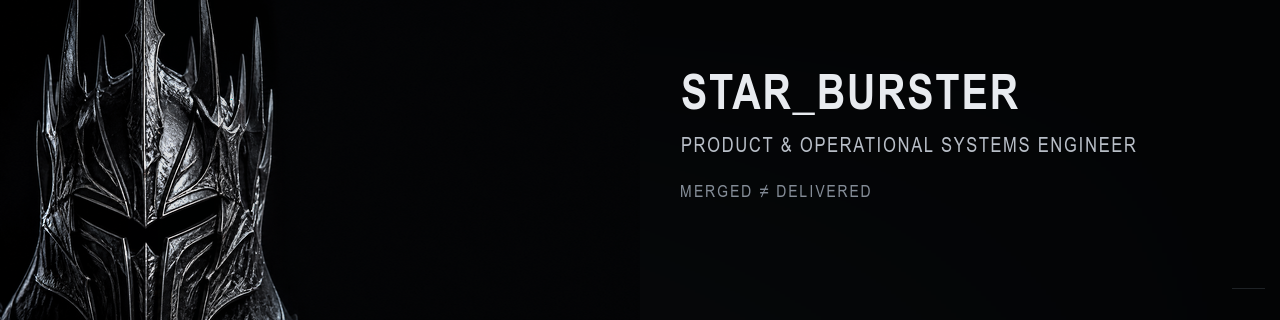
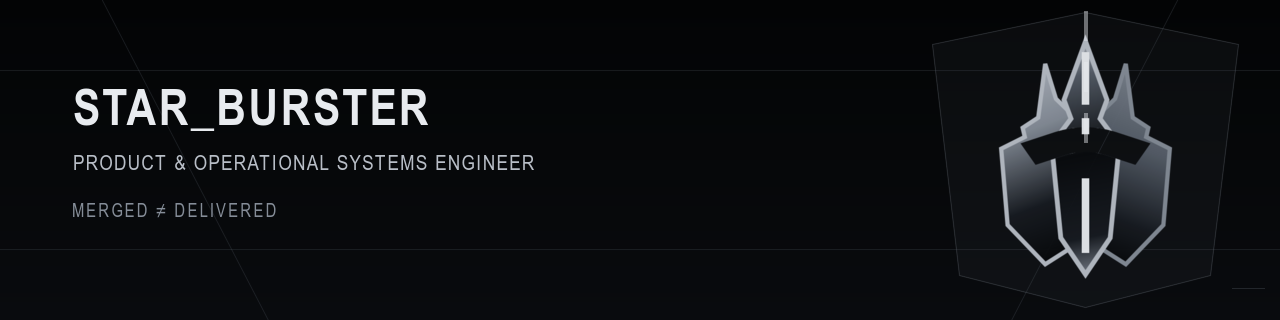
Finish Star_Burster profile content and visuals

diff --git a/case-studies/employee-operations-portal.md b/case-studies/employee-operations-portal.md
@@ -1,37 +1,48 @@
-<div align="center">
+<picture>
+  <source media="(max-width: 720px)" srcset="../assets/brand/github-readme-hero-mobile-780x390.png">
+  <img src="../assets/brand/github-readme-hero-desktop-1280x320.png" alt="Star_Burster — Product and Operational Systems Engineer. Merged does not mean delivered." width="1280">
+</picture>
 
-![FalconExLover — Neon Ops](../assets/neon-ops-header.svg)
+[← Back to the profile](../README.md)
 
-# `MISSION FILE // OPS-03`
+# Employee Operations Portal
 
-**EMPLOYEE OPERATIONS PORTAL**
+**Owner-authored case study · Enterprise workflows · Offline resilience · Operations**
 
-`ENTERPRISE WORKFLOWS` · `OFFLINE RESILIENCE` · `OPERATIONS`
+## Context
 
-</div>
+Fragmented employee requests needed one digital entry point without building and maintaining a separate page and handling path for every department and request type.
 
-[← Return to systems profile](../README.md)
+## Constraint
 
-## `01 // context`
-An internal operations portal was designed to replace fragmented, manual request workflows with a single digital entry point.
+The documented scope covers 30 request types across 13 departments, role-specific queues, SLA tracking, escalation, employee communication, unreliable connectivity, deployment, backups, and recurring operations.
 
-## `02 // independent delivery`
-- Built a declarative request engine supporting 30 request types across 13 departments.
-- Implemented role-based access, role-specific work queues, SLA tracking, escalation, employee communication features, knowledge base, and management dashboards.
-- Added PWA offline request queue for unreliable connectivity.
-- Built a portable deployment package with Docker and PostgreSQL, automated migrations, backup rotation, operational runbooks, and end-to-end smoke testing.
+## Decisions
 
-## `03 // engineering outcomes`
-- New request types can be configured without creating a new page for each workflow.
-- The service can run locally with SQLite and move to PostgreSQL when deployed.
-- Operational tasks such as backups and recurring notifications are documented and automated.
+- built a declarative request engine so new request types can be configured instead of receiving a dedicated page;
+- added role-based access, role-specific work queues, SLA tracking, escalation, communication features, a knowledge base, and management dashboards;
+- added a PWA offline request queue for unreliable connectivity;
+- supported local operation with SQLite and deployment with PostgreSQL;
+- packaged deployment with Docker, automated migrations, backup rotation, operational runbooks, recurring notifications, and end-to-end smoke testing.
 
-## `04 // systems loadout`
-
-`Next.js` · `TypeScript` · `React` · `SQLite` · `PostgreSQL` · `Docker` · `Playwright` · `PWA`
+## Verification path
 
 ```text
-REQUEST → ROUTE → TRACK → RESOLVE → LEARN
+REQUEST → ROUTE → ROLE QUEUE → TRACK → RESOLVE → SMOKE CHECK → RECOVER
 ```
 
-[← Return to systems profile](../README.md)
+The documented acceptance surface covers request creation, routing, role visibility, lifecycle tracking, offline queuing, deployment steps, and recurring operational tasks.
+
+## Result
+
+The public case documents a configurable request system that brings multiple departmental workflows into one model while keeping deployment and operational responsibilities explicit.
+
+## Evidence boundary
+
+The figures `30 request types` and `13 departments` are owner-authored scope facts. The documented system is a prototype: it has not been deployed or connected to live identity, mail, access-control, service-management, or accounting systems. This case does not independently prove adoption, time savings, SLA improvement, availability, security, or organization-wide business impact.
+
+## Коротко по-русски
+
+Портал объединяет 30 типов заявок для 13 подразделений через декларативный движок, ролевые очереди, SLA-контур и offline-очередь PWA. Это прототип: он не развёрнут и не подключён к боевым системам. Публичный кейс показывает заявленный охват и устройство рабочего потока, но не выдаёт их за независимо подтверждённый бизнес-эффект.
+
+[← Back to the profile](../README.md)

diff --git a/case-studies/booking-operations-platform.md b/case-studies/booking-operations-platform.md
@@ -1,38 +1,48 @@
-<div align="center">
+<picture>
+  <source media="(max-width: 720px)" srcset="../assets/brand/github-readme-hero-mobile-780x390.png">
+  <img src="../assets/brand/github-readme-hero-desktop-1280x320.png" alt="Star_Burster — Product and Operational Systems Engineer. Merged does not mean delivered." width="1280">
+</picture>
 
-![FalconExLover — Neon Ops](../assets/neon-ops-header.svg)
+[← Back to the profile](../README.md)
 
-# `MISSION FILE // OPS-01`
+# Booking & Operations Platform
 
-**BOOKING & OPERATIONS PLATFORM**
+**Owner-authored case study · Product delivery · Platform engineering · Observability**
 
-`PRODUCT DELIVERY` · `PLATFORM ENGINEERING` · `OBSERVABILITY`
+## Context
 
-</div>
+A customer-facing booking platform needed more than application code. The delivery path also had to make configuration, service dependencies, releases, operating signals, and recovery work understandable after launch.
 
-[← Return to systems profile](../README.md)
+## Constraint
 
-## `01 // context`
-A customer-facing booking platform required a production-ready application and an operating model that could be maintained safely after release.
+The working flow crossed the application, PostgreSQL, Redis, Nginx, containers, and the monitoring stack. A repository event alone could not show whether that complete path was ready to operate.
 
-## `02 // independent delivery`
-- Designed the service architecture and deployment topology.
-- Built backend and frontend delivery flow around Node.js, PostgreSQL, Redis, Docker Compose, and Nginx.
-- Added environment-specific configuration and release checks.
-- Implemented observability: structured logs, Prometheus metrics, Grafana dashboards, Loki, and Alertmanager.
-- Established GitHub Actions validation, security scanning, staging checks, and deployment runbooks.
+## Decisions
 
-## `03 // engineering outcomes`
-- Release process is documented and repeatable.
-- Operational signals are visible through logs, metrics, dashboards, and alerts.
-- Configuration, database, and service dependencies are explicitly managed.
+- structured the backend and frontend delivery flow around Node.js, PostgreSQL, Redis, Docker Compose, and Nginx;
+- separated environment-specific configuration from the application and documented service dependencies;
+- added structured logs, Prometheus metrics, Grafana dashboards, Loki, and Alertmanager;
+- defined GitHub Actions validation, security scanning, staging checks, release checks, and deployment runbooks;
+- treated recovery instructions as part of delivery rather than post-release housekeeping.
 
-## `04 // systems loadout`
-
-`Node.js` · `PostgreSQL` · `Redis` · `Docker Compose` · `Nginx` · `GitHub Actions` · `Prometheus` · `Grafana` · `Loki` · `Alertmanager`
+## Verification path
 
 ```text
-RELEASE → OBSERVE → VERIFY → RECOVER
+CHANGE → AUTOMATED CHECKS → STAGING CHECK → RELEASE → SIGNALS → RECOVERY PATH
 ```
 
-[← Return to systems profile](../README.md)
+The public case documents the controls and the expected verification sequence. It does not expose private dashboards, customer data, internal addresses, or production credentials.
+
+## Result
+
+The application stack, release path, monitoring surface, configuration boundaries, and recovery responsibilities are documented as one operating system instead of unrelated tools.
+
+## Evidence boundary
+
+This case demonstrates the documented architecture and operating method. It does not independently prove uptime, revenue, performance improvement, customer acceptance, or production scale.
+
+## Коротко по-русски
+
+Платформа бронирования описана как единый рабочий контур: приложение, данные, кеш, прокси, выпуск, наблюдаемость и восстановление. Публичный кейс подтверждает состав стека и метод проверки, но не заявляет неподтверждённые показатели бизнеса, производительности или доступности.
+
+[← Back to the profile](../README.md)

diff --git a/case-studies/catalog-commerce-platform.md b/case-studies/catalog-commerce-platform.md
@@ -1,36 +1,48 @@
-<div align="center">
+<picture>
+  <source media="(max-width: 720px)" srcset="../assets/brand/github-readme-hero-mobile-780x390.png">
+  <img src="../assets/brand/github-readme-hero-desktop-1280x320.png" alt="Star_Burster — Product and Operational Systems Engineer. Merged does not mean delivered." width="1280">
+</picture>
 
-![FalconExLover — Neon Ops](../assets/neon-ops-header.svg)
+[← Back to the profile](../README.md)
 
-# `MISSION FILE // OPS-02`
+# Catalog & Commerce Platform
 
-**CATALOG & COMMERCE PLATFORM**
+**Owner-authored case study · Full-stack product · Typed workflows · Quality gates**
 
-`FULL-STACK PRODUCT` · `TYPED WORKFLOWS` · `QUALITY GATES`
+## Context
 
-</div>
+A product catalog and customer-request platform needed one maintainable path from the interface through validation and data persistence to release checks.
 
-[← Return to systems profile](../README.md)
+## Constraint
 
-## `01 // context`
-A modern product catalog and customer-request platform needed a maintainable frontend, data model, API layer, and quality controls.
+Catalog, search, filters, service-location discovery, forms, API routes, and database changes share the same product flow. Weak contracts at any boundary can turn a valid interface action into invalid data or an unreproducible release.
 
-## `02 // independent delivery`
-- Built the application using Next.js, TypeScript, React, Prisma, PostgreSQL, Tailwind CSS, and Zod.
-- Implemented product catalog workflows, search, filters, service-location discovery, forms, and API routes.
-- Added SEO foundations and request validation.
-- Established branch governance, automated quality gates, smoke testing, documentation, and frontend observability practices.
+## Decisions
 
-## `03 // engineering outcomes`
-- The platform has a documented development workflow and repeatable checks before release.
-- The data model and application behavior are maintained through Prisma migrations and typed interfaces.
+- used Next.js, React, and TypeScript for the application surface and shared type contracts;
+- used Prisma and PostgreSQL for the data model and migrations;
+- applied Zod validation at request boundaries;
+- implemented catalog, search, filter, service-location, form, and API workflows as connected product paths;
+- added SEO foundations, branch governance, automated quality gates, smoke testing, documentation, and frontend observability practices.
 
-## `04 // systems loadout`
-
-`Next.js` · `TypeScript` · `React` · `Prisma` · `PostgreSQL` · `Tailwind CSS` · `Zod` · `GitHub Actions`
+## Verification path
 
 ```text
-MODEL → VALIDATE → DELIVER → MEASURE
+INTERFACE → VALIDATION → API → DATA MODEL → SMOKE CHECK → RELEASE
 ```
 
-[← Return to systems profile](../README.md)
+The documented checks cover typed interfaces, request validation, migration-managed data changes, and a smoke path through the application.
+
+## Result
+
+The public case shows a typed catalog and request architecture in which interface behavior, validation, API handling, data changes, and release checks are treated as one maintainable flow.
+
+## Evidence boundary
+
+This case demonstrates implementation choices and documented quality controls. It does not independently prove conversion, traffic, revenue, security posture, performance improvement, or production scale.
+
+## Коротко по-русски
+
+Каталог и клиентские заявки собраны в типизированный поток от интерфейса и валидации до API, модели данных и smoke-проверки. Кейс показывает архитектурные решения и границы контроля качества, но не приписывает им неподтверждённый коммерческий эффект.
+
+[← Back to the profile](../README.md)

diff --git a/README.md b/README.md
@@ -30,6 +30,19 @@ CONTEXT → RISK → SMALLEST REVERSIBLE CHANGE → VERIFY THE REAL FLOW → REC
 4. Verify tests, operating signals, and the real user or business flow.
 5. Document the remaining uncertainty and recovery path.
 
+## Private work, public boundaries
+
+Most substantial product and client work lives in private repositories because it contains business context, infrastructure details, or operating data that should not be exposed.
+
+The private portfolio spans:
+
+- booking and service operations across interface, API, data, deployment, and observability;
+- employee services for web, Android, and iOS, including role-based workflows and unreliable-connectivity paths;
+- typed catalog and commerce systems with data migration, request, and release controls;
+- Telegram, AI-routing, marketplace, and data-analysis products built across TypeScript, Python, Java, and Swift.
+
+These categories describe engineering scope; they are not presented as independently verified business outcomes. The public code and sanitized cases below are the inspectable evidence layer.
+
 ## Selected case studies
 
 These are owner-authored technical cases. They document implementation choices and operating practices; they do not claim independent validation of business impact.
